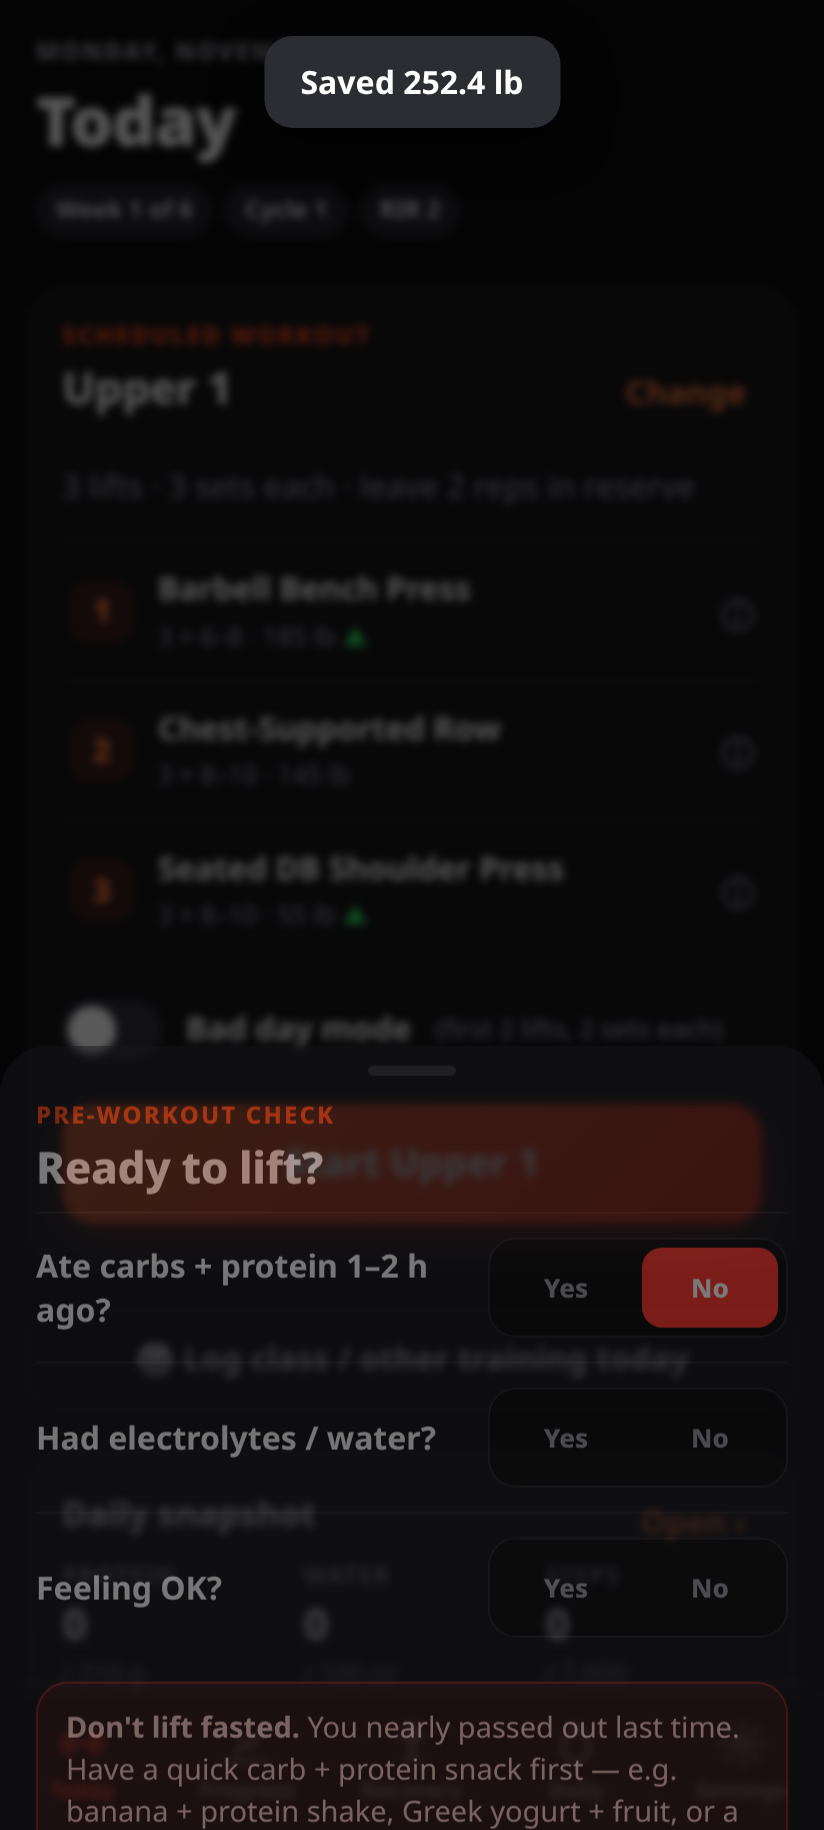
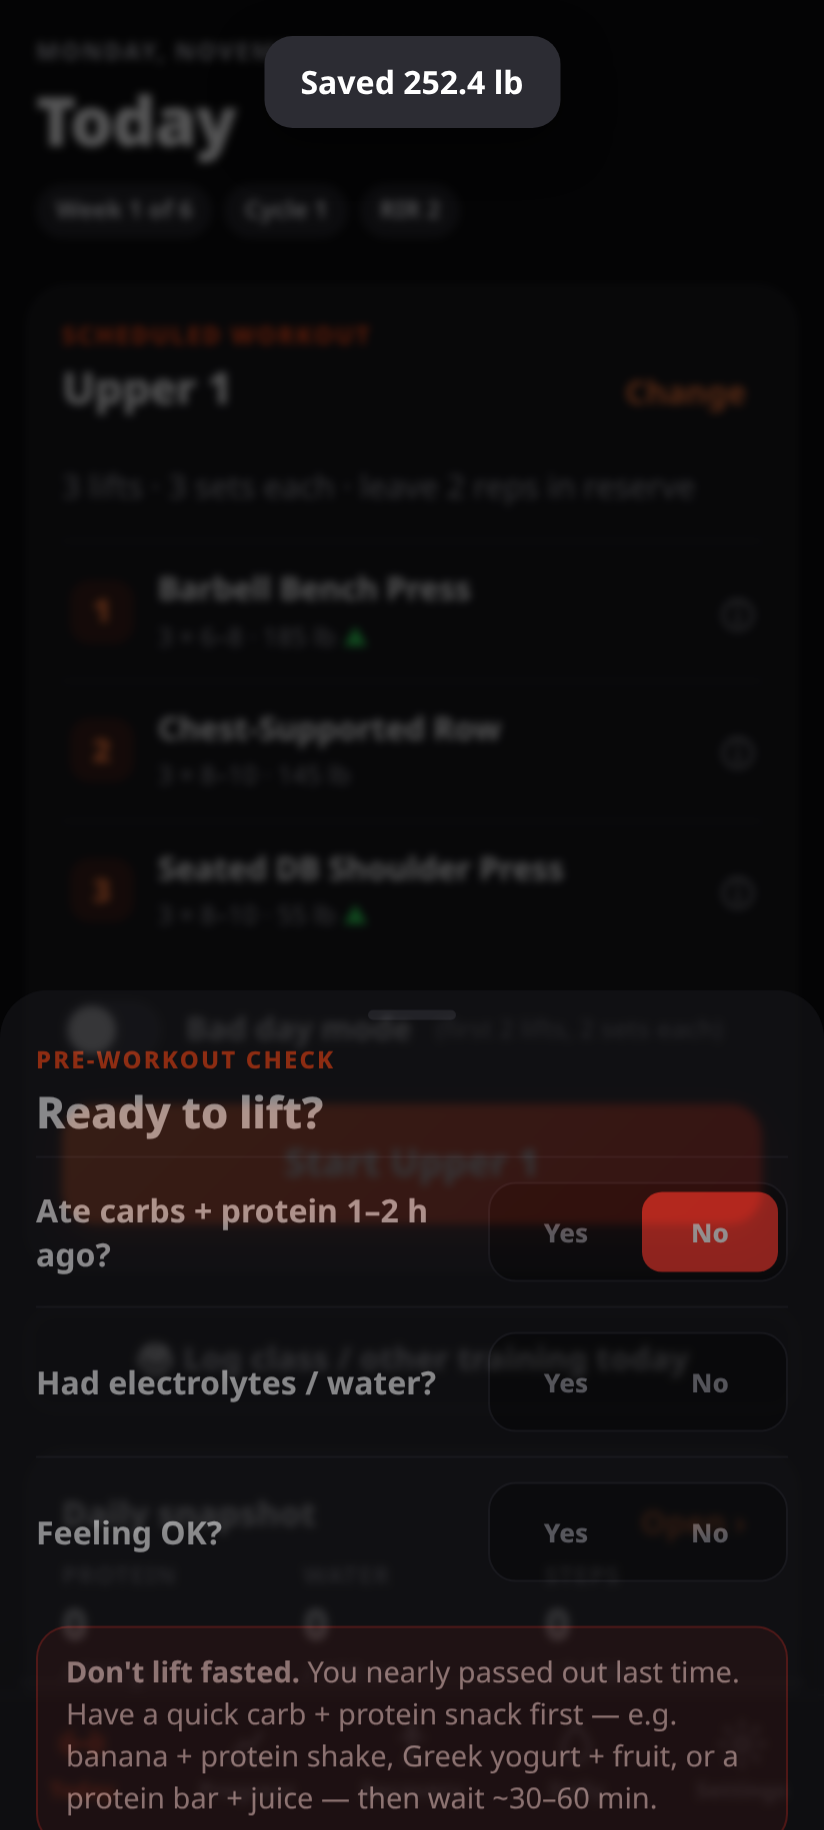
Close sheets on tab change; refresh screenshots

diff --git a/src/app.js b/src/app.js
@@ -23,7 +23,7 @@ function render() {
   window.scrollTo(0, y);
   renderTimer();
 }
-function go(t) { tab = t; location.hash = t; window.scrollTo(0, 0); render(); }
+function go(t) { closeSheet(); tab = t; location.hash = t; window.scrollTo(0, 0); render(); }
 
 // =========================================================== TODAY
 function viewToday() {
@@ -602,7 +602,7 @@ document.addEventListener('change', e => {
   r.readAsText(f);
 });
 document.addEventListener('visibilitychange', () => { if (!document.hidden && state.active) wake(true); tick(); });
-window.addEventListener('hashchange', () => { const h = location.hash.slice(1); if (TABS.includes(h) && h !== tab) { tab = h; render(); } });
+window.addEventListener('hashchange', () => { const h = location.hash.slice(1); if (TABS.includes(h) && h !== tab) { closeSheet(); tab = h; render(); } });
 
 setInterval(tick, 250);
 render();
